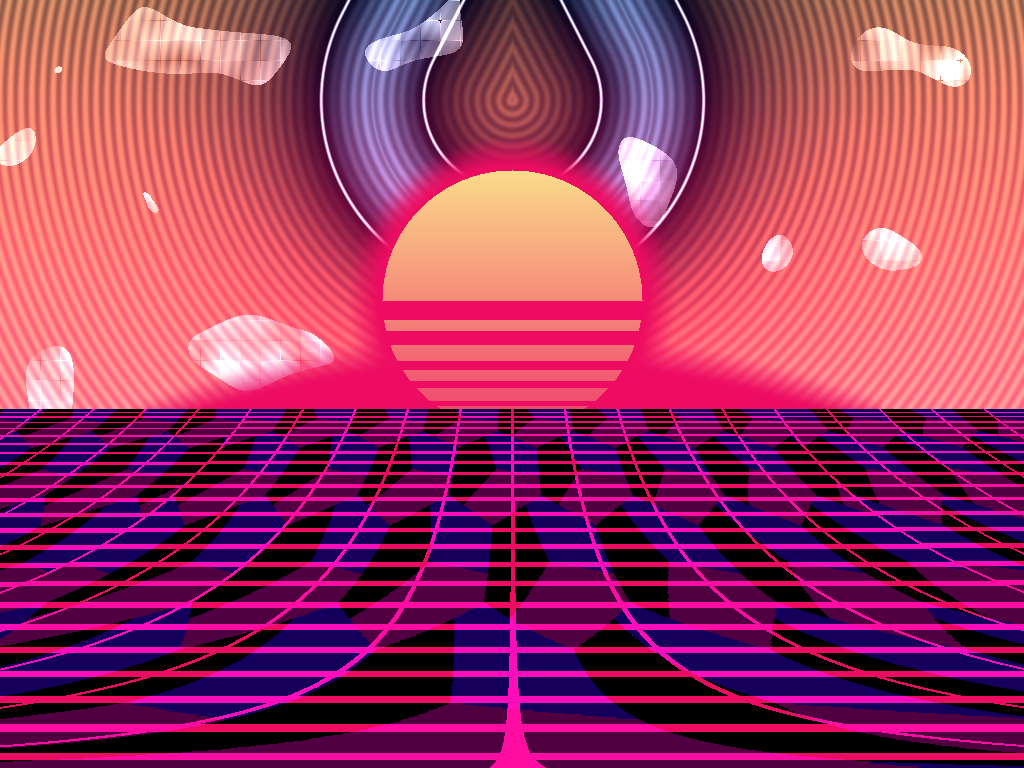
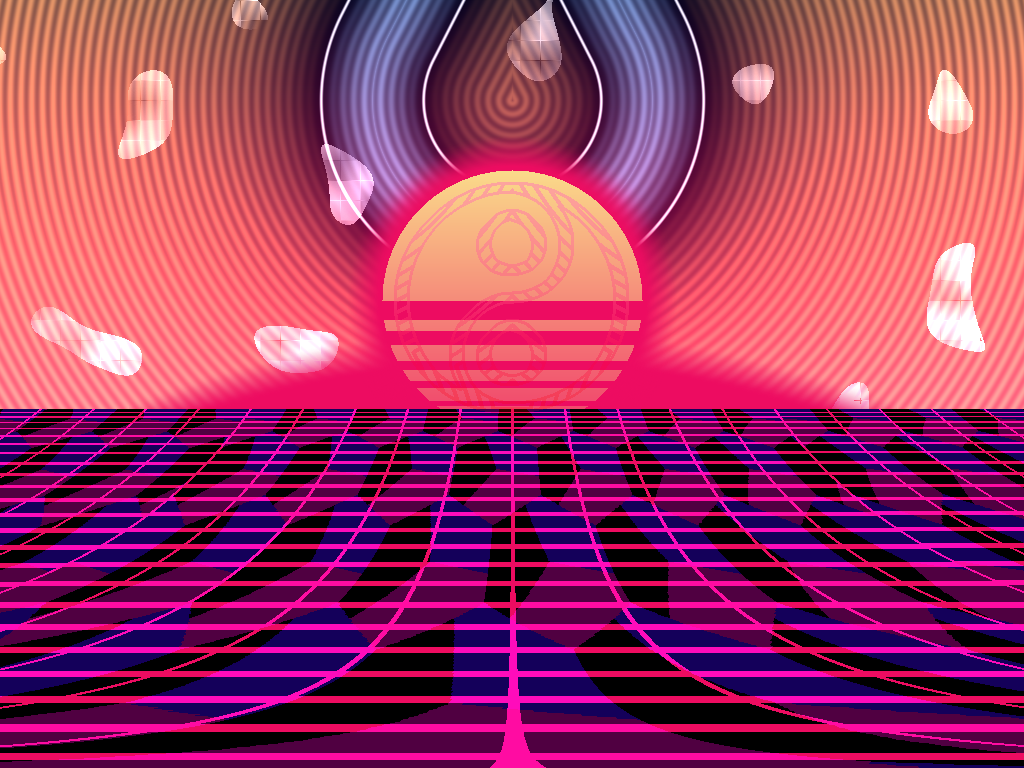
Additions to the final image

diff --git a/src/textures/signed_distance_textures.js b/src/textures/signed_distance_textures.js
@@ -728,6 +728,7 @@ function texture_sdHexagram(dict) {
 function texture_sdStar5(dict) {
    const r =         dict['size']      || WIDTH / 5;
    const rf =        dict['size2'] / r || 1.7;
+   const intensity = dict['intensity'] || 2;
    const center =    dict['center']    || [];
    const center_x =  dict['centerx']   || center[0] || WIDTH / 2;
    const center_y =  dict['centery']   || center[1] || HEIGHT / 2;
@@ -751,7 +752,7 @@ function texture_sdStar5(dict) {
    return function (x, y) {
       const p = [x - center_x, y - center_y];
 
-      const d = 2 * dist(p, r, rf) / WIDTH;
+      const d = intensity * dist(p, r, rf) / WIDTH;
 
       return fcolor(d);
    };
